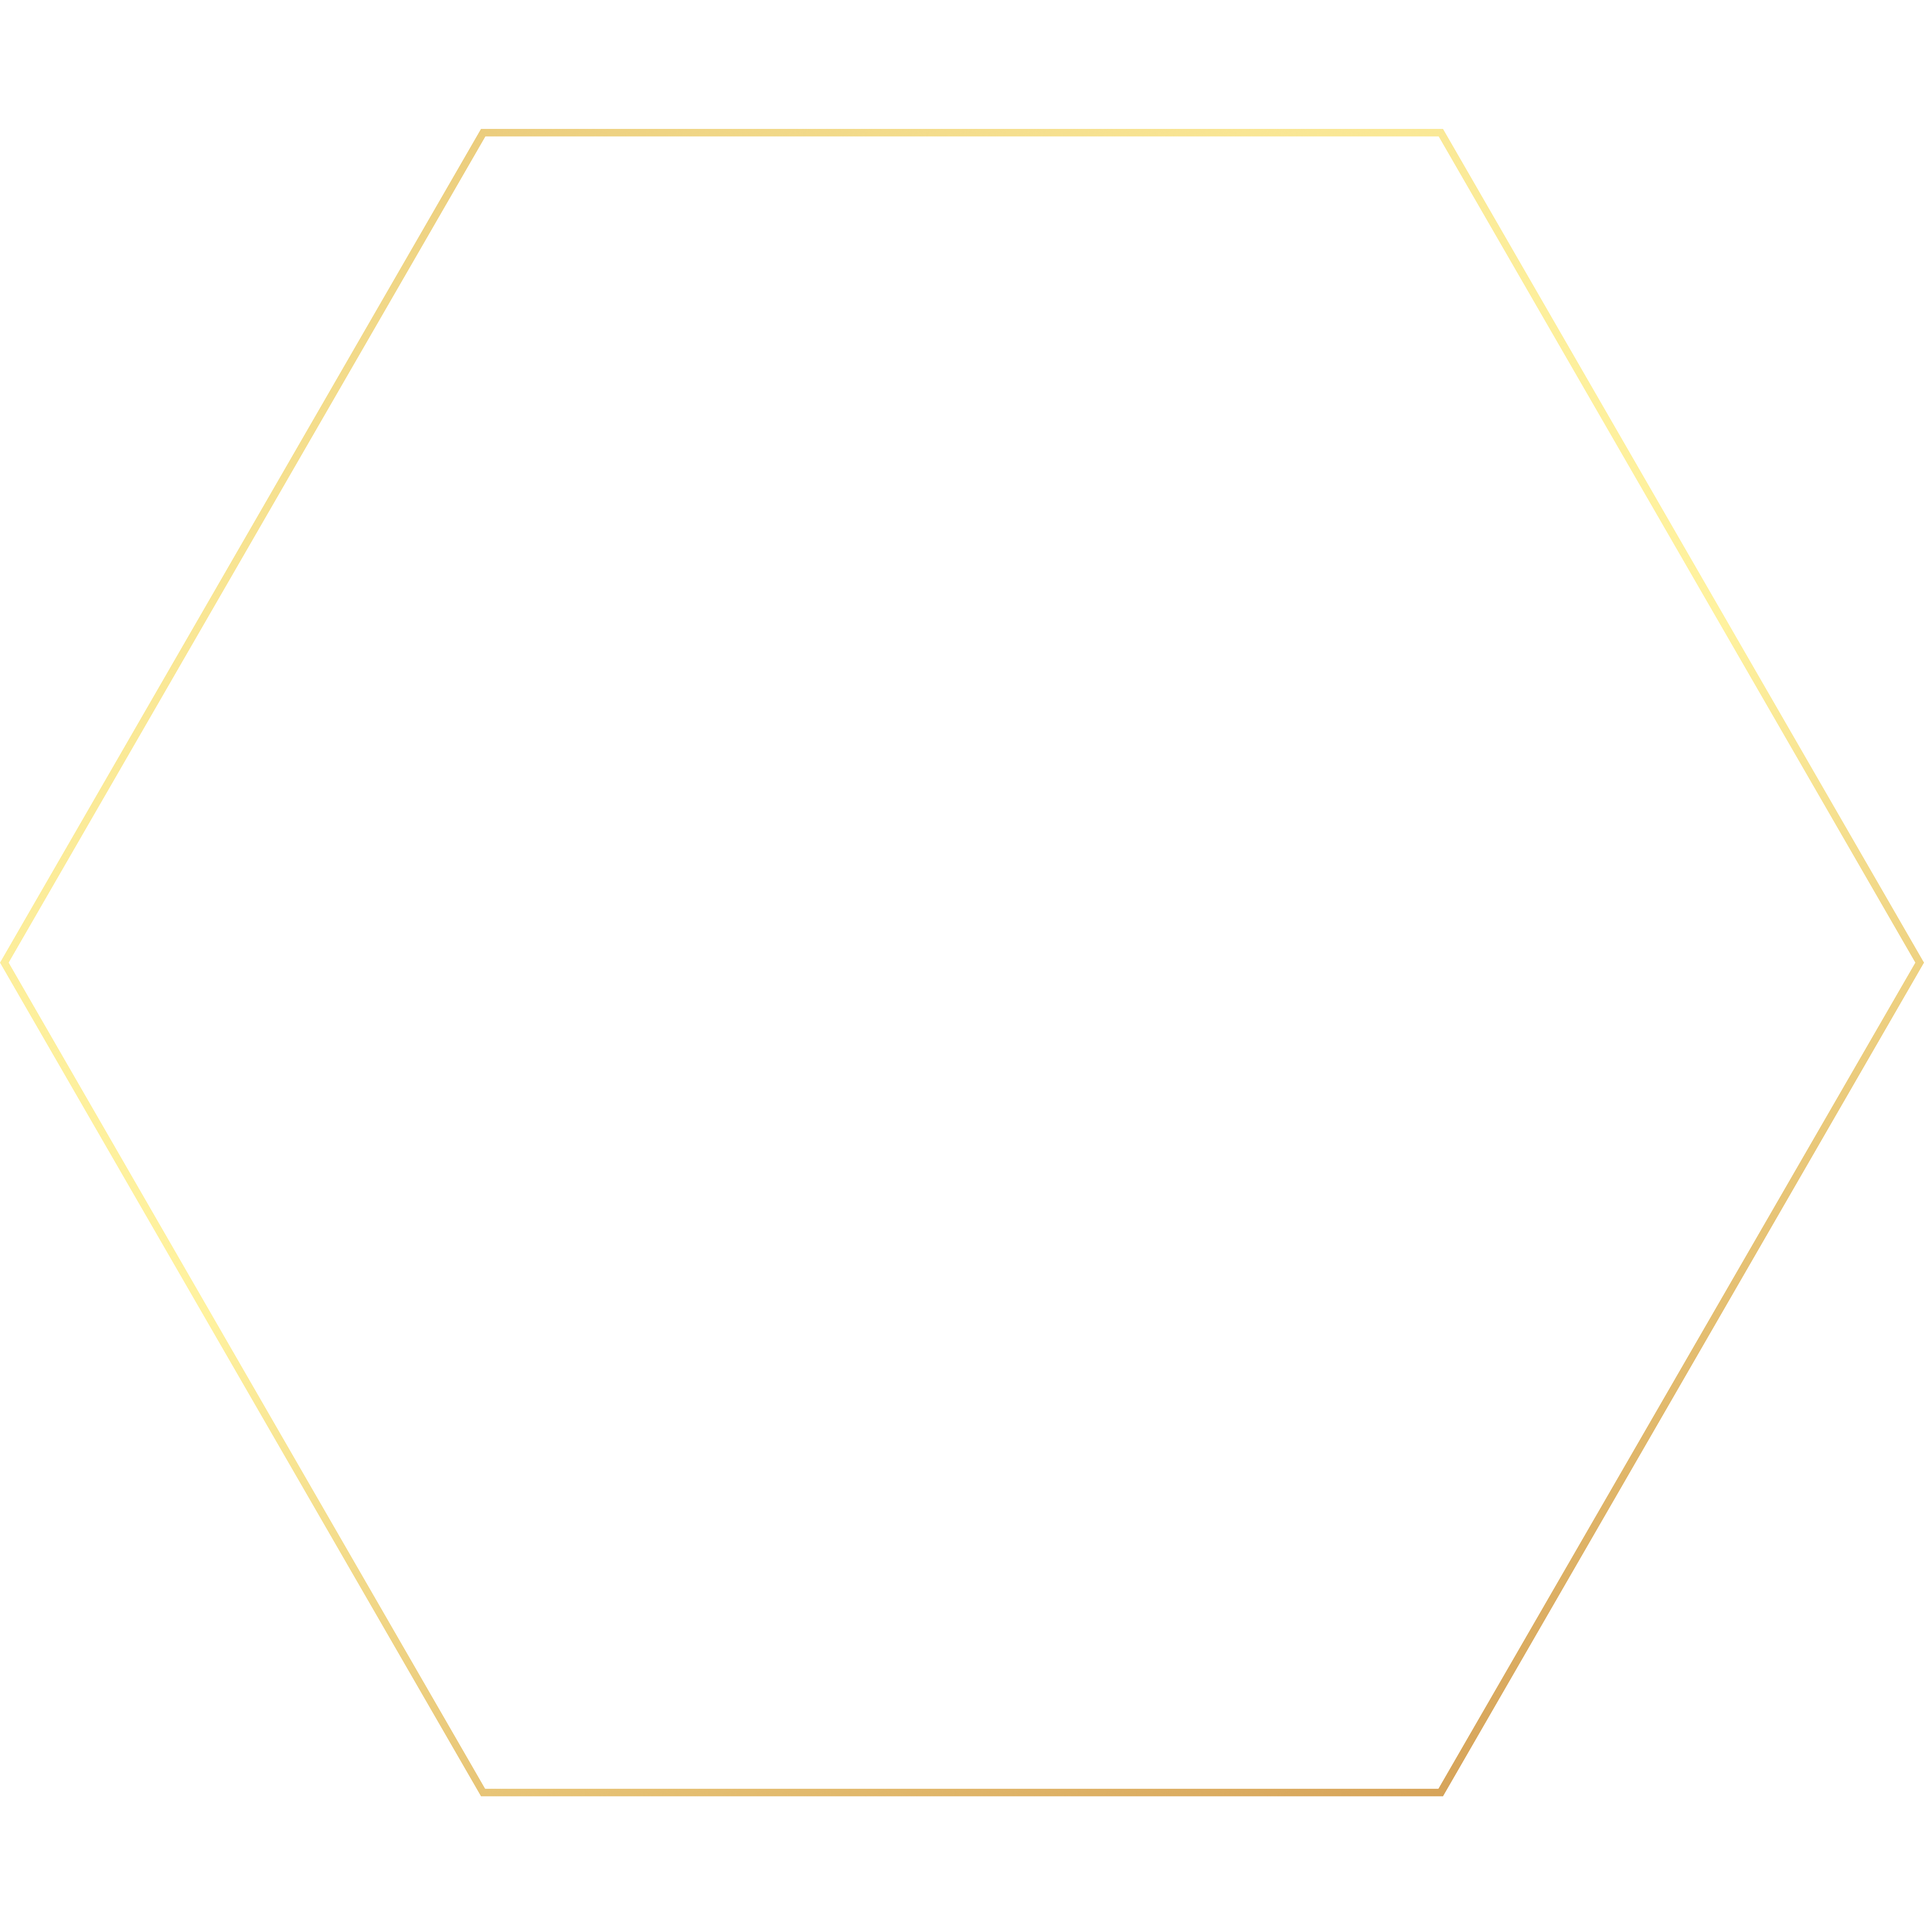
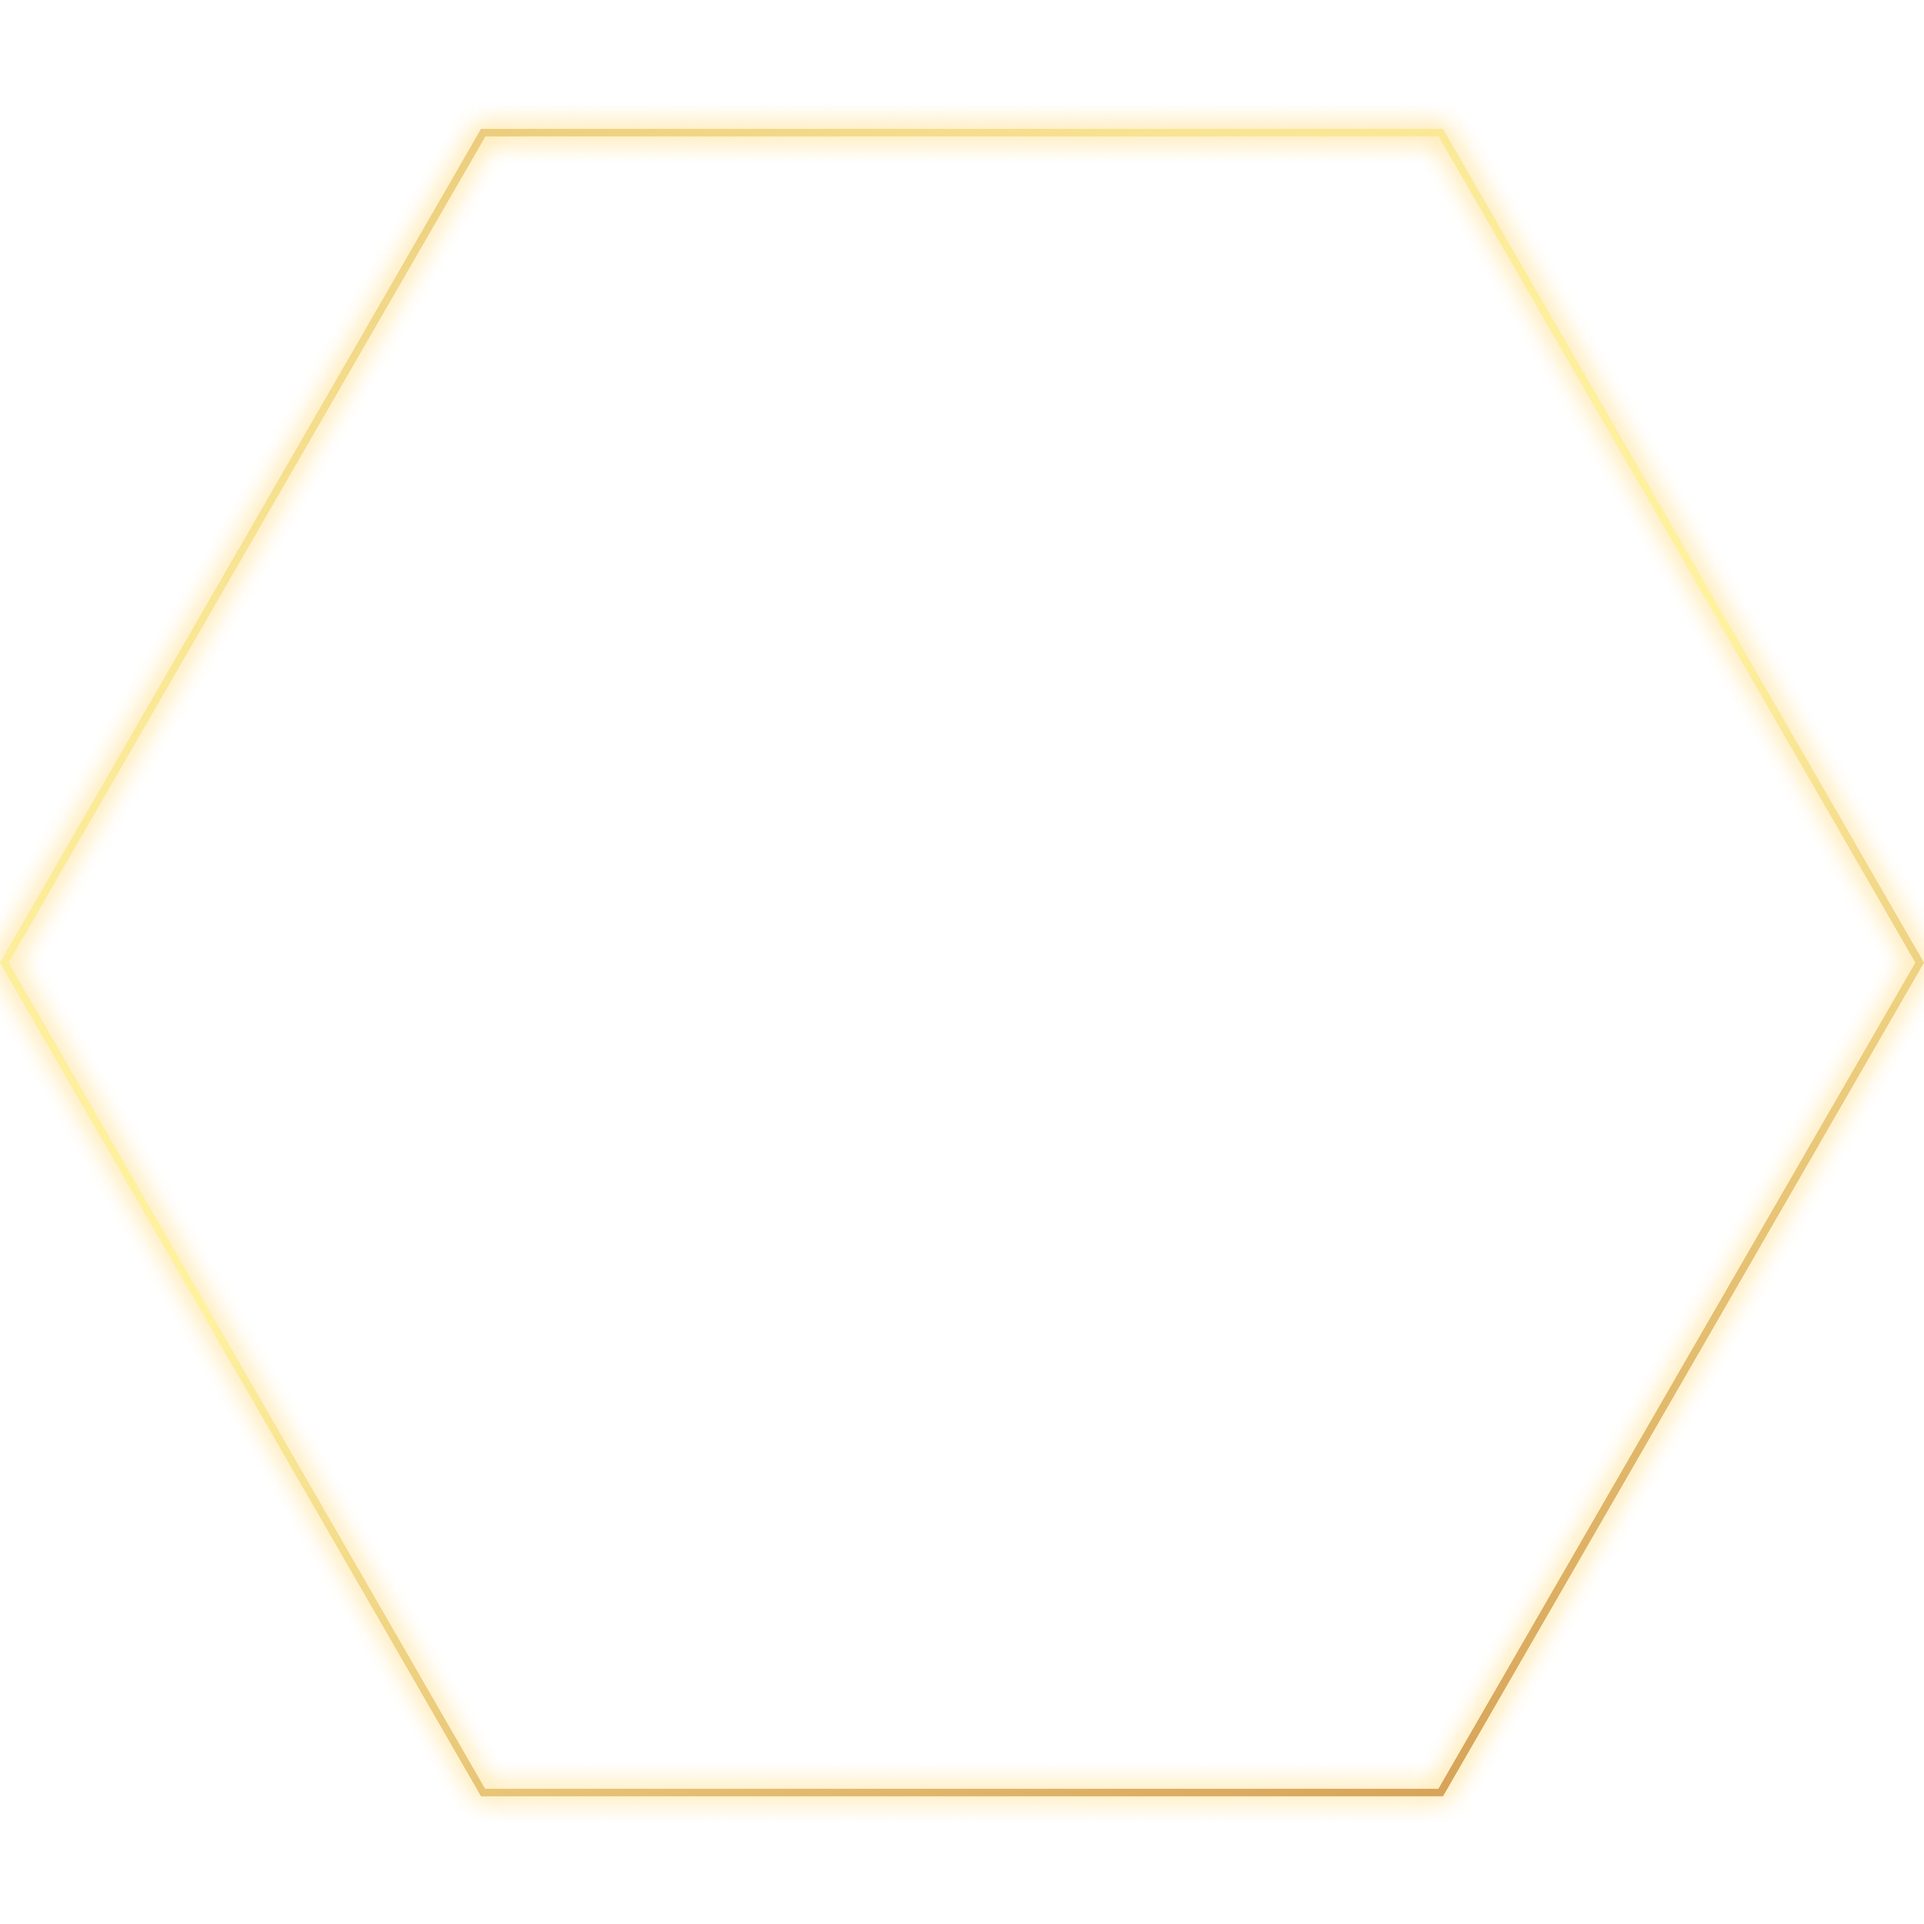
oke

diff --git a/user/assets/style/ziven.css b/user/assets/style/ziven.css
@@ -251,23 +251,68 @@ body {
 }
 
 @keyframes openCardFrame {
-  50% {
+  40% {
     width: 10px;
     height: 10px;
-    transform: rotate(360deg);
+    transform: rotate(359deg);
   }
 
-  75% {
+  60% {
+    width: max(30vw, 30vh);
+    height: max(30vw, 30vh);
     transform: rotate(0);
+  }
+
+  70% {
+    width: max(35vw, 35vh);
+    height: max(35vw, 35vh);
+    transform: rotate(135deg);
+  }
+
+  80% {
+    width: max(150vw, 150vh);
+    height: max(150vw, 150vh);
+    transform: rotate(360deg);
   }
 
   100% {
     width: max(150vw, 150vh);
     height: max(150vw, 150vh);
-    transform: rotate(360deg);
+    transform: rotate(0);
   }
 }
 
+@keyframes openCardFrame-2 {
+  40% {
+    width: 10px;
+    height: 10px;
+    transform: rotate(-360deg);
+  }
+
+  60% {
+    width: max(30vw, 30vh);
+    height: max(30vw, 30vh);
+    transform: rotate(-90deg);
+  }
+
+  70% {
+    width: max(45vw, 45vh);
+    height: max(45vw, 45vh);
+    transform: rotate(-225deg);
+  }
+
+  80% {
+    width: max(150vw, 150vh);
+    height: max(150vw, 150vh);
+    transform: rotate(-360deg);
+  }
+
+  100% {
+    width: max(150vw, 150vh);
+    height: max(150vw, 150vh);
+    transform: rotate(0);
+  }
+}
 @keyframes idle {
   0% {
     transform: translateX(0) translateY(0);
@@ -296,7 +341,7 @@ body {
   0% {
   }
 
-  30% {
+  50% {
     width: 0px;
     height: 0px;
   }
@@ -312,27 +357,75 @@ body {
     background: white;
   }
 
-  45% {
+  35% {
     width: min(75vw, 75vh);
     height: min(75vw, 75vh);
     background-image: url(../images/ziven/landingBackground.png);
-    transform: scale(0.01);
+    background: gold;
+    transform: scale(0.1);
     /* border-radius: 0; */
   }
 
-  50% {
+  43% {
     width: min(75vw, 75vh);
     height: min(75vw, 75vh);
-    transform: scale(0.01);
+    /* background-image: url(../images/ziven/landingBackground.png); */
+    background: gold;
+    transform: scale(0.1);
+  }
+
+  60% {
+    width: min(25vw, 30vh);
+    height: min(25vw, 30vh);
+    transform: scale(1);
+    /* box-shadow: none; */
+    background: gold;
+    /* background-image: url(../images/ziven/landingBackground.png); */
+  }
+
+  70% {
+    width: min(35vw, 50vh);
+    height: min(35vw, 50vh);
+    transform: scale(1);
+    /* box-shadow: none; */
+    background: gold;
+    /* background-image: url(../images/ziven/landingBackground.png); */
+  }
+
+  99% {
+    width: min(75vw, 75vh);
+    height: min(75vw, 75vh);
+    /* box-shadow: none; */
+    /* border-radius: 0; */
     background-image: url(../images/ziven/landingBackground.png);
+    background-position: center;
+    transform: scale(10);
+    /* border-radius: 0; */
   }
 
   100% {
-    width: max(100vw, 100vh);
-    height: max(100vw, 100vh);
+    filter: blur(10px);
+  }
+
+  /* 100% {
+    width: 100vw;
+    height: 100vh;
     background-image: url(../images/ziven/landingBackground.png);
-    transform: scale(10);
-    /* border-radius: 0; */
+    transform: scale(1.5);
+    filter: blur(10px);
+  } */
+}
+
+@keyframes openTextCircle {
+  49% {
+    opacity: 0;
+  }
+  50% {
+    opacity: 0;
+  }
+
+  100% {
+    opacity: 0;
   }
 }
 .invitation-title {

diff --git a/user/assets/js/invitation.js b/user/assets/js/invitation.js
@@ -22,22 +22,31 @@ document.addEventListener("click", () => {
     let middleCircle = document.querySelector(".middle-circle-inv");
     let invContainer = document.querySelector(".container-inv");
     let sparkleInv = document.querySelector(".sparkle-inv");
-    frame1.style.animation = "openCardFrame 3.4s ease-in-out 1";
-    frame2.style.animation = "openCardFrame 3.4s ease-in-out 1";
-    sparkleInv.style.animation = "openCardFrame 3.4s ease-in-out 1";
+    let circleText = document.querySelectorAll(".invitation-title");
+    circleText.forEach((element) => {
+      element.style.animation = "openTextCircle 4s ease-in-out 1";
+    });
+
     middleCircle.style.animation = "openMiddleCircle 4s ease-in-out 1";
+    frame1.style.animation = "openCardFrame 4s ease-in-out 1";
+    frame2.style.animation = "openCardFrame-2 4s ease-in-out 1";
+    sparkleInv.style.animation = "openCardFrame 4s ease-in-out 1";
     temp = ["&nbsp", "&nbsp", "&nbsp", "&nbsp"];
 
     document
       .querySelectorAll(
-        ".flower-1, .flower-2, .leave-1, .leave-2, .leave-3, .leave-4"
+        ".flower-1, .flower-2, .leave-1, .leave-2, .leave-3, .leave-4, .golden-blur"
       )
       .forEach((element) => {
         element.style.animation = "openRemove 4s ease-in-out 1";
       });
 
     setTimeout(function () {
-      document.body.style.overflow = "auto";
+      setTimeout(() => {
+        document.body.style.overflow = "auto";
+      }, 300);
+      document.querySelector(".landing-inv").style.animation =
+        "reverseBlur 4s linear 1";
       invContainer.remove();
     }, 4000);
     first = false;

diff --git a/user/assets/style/landing.css b/user/assets/style/landing.css
@@ -12,6 +12,15 @@
   position: relative;
 }
 
+@keyframes reverseBlur {
+  0% {
+    filter: blur(10px);
+  }
+
+  100% {
+    filter: blur(0);
+  }
+}
 .landing-flower {
   position: absolute;
   /* width: 100vw; */

diff --git a/user/OpeningCard.php b/user/OpeningCard.php
@@ -40,6 +40,8 @@
 
     </div>
 
+    <div class="landing-inv"></div>
+
     <div class="landing-inv">
         <div class="golden-blur golden-blur-2"></div>
         <div class="golden-blur golden-blur-3"></div>
